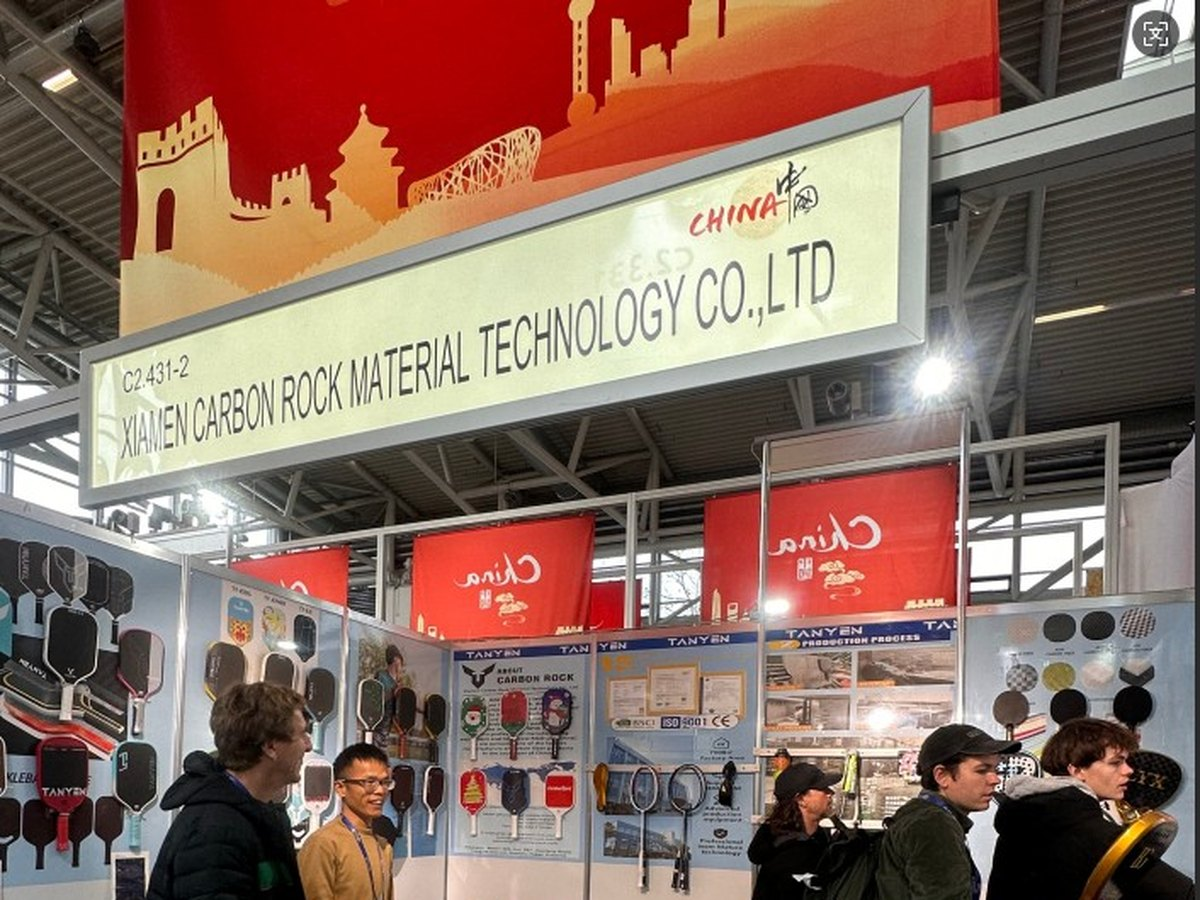
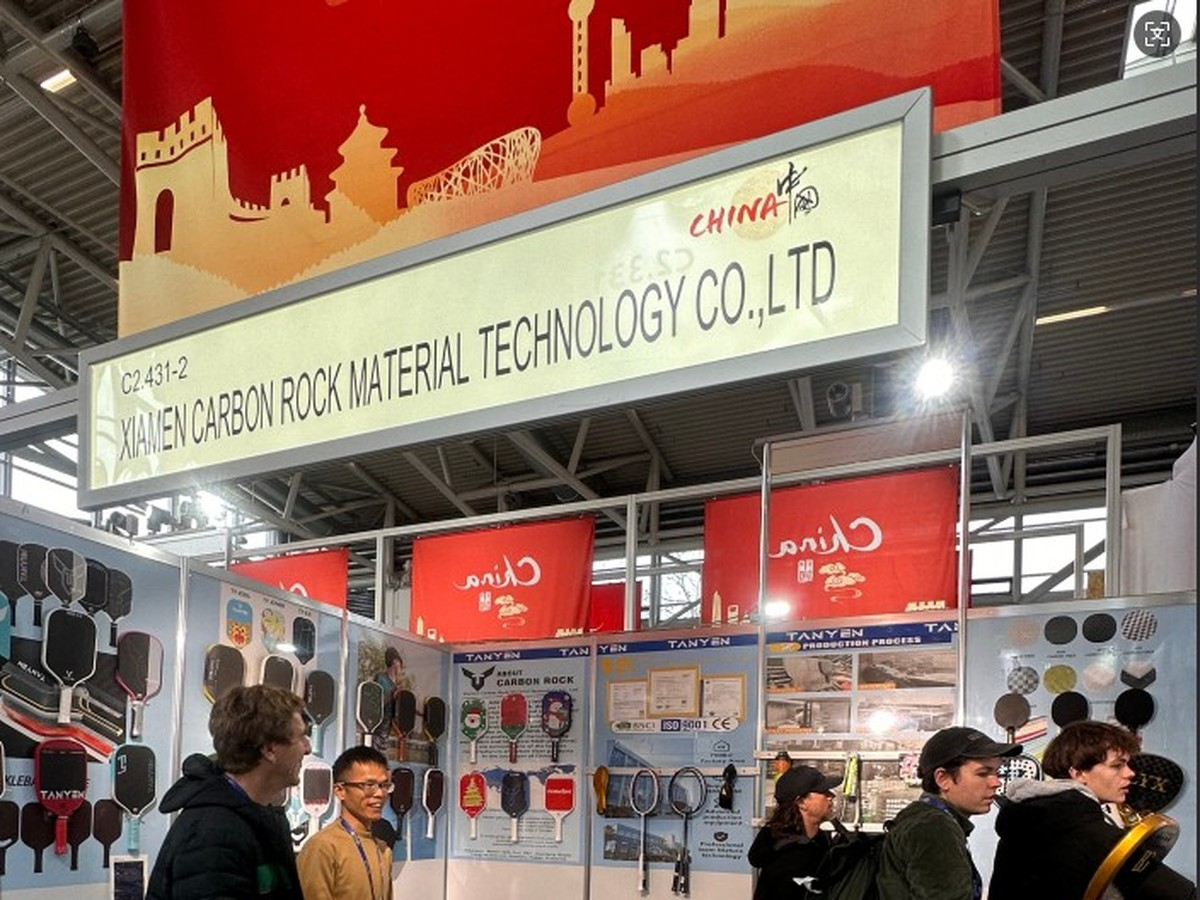
fix: preserve ISPO homepage image ratio

diff --git a/index.html b/index.html
@@ -60,7 +60,7 @@
 <div class="container cert-badges"><a class="cert-badge" href="quality.html#certifications"><img src="assets/img/certifications/iso-9001-hd.jpg" alt="ISO 9001:2015 certificate 25CN34517594Q"><span>ISO 9001:2015</span></a><a class="cert-badge" href="quality.html#certifications"><img src="assets/img/certifications/ce-verification-hd.jpg" alt="CE verification certificate ICR/VC/HM250954"><span>CE Verified</span></a><a class="cert-badge" href="quality.html#certifications"><img src="assets/img/certifications/bsci-amfori-hd.jpg" alt="amfori BSCI social audit by SGS"><span>amfori BSCI</span></a><a class="cert-badge" href="quality.html#certifications"><img src="assets/img/certifications/usapa-test-hd.jpg" alt="USA Pickleball paddle certification testing"><span>USA Pickleball Testing</span></a></div>
 <section class="section"><div class="container"><div class="section-head"><div><span class="kicker">Pickleball Platforms</span><h2>Pickleball paddle programs built for your market.</h2></div><p>Choose a proven construction platform, then customize shape, face material, core thickness, graphics, grip and packaging.</p></div><p class="new-platforms-note"><strong>New 2026 platforms:</strong> <a href="product-kevlar.html">Kevlar</a> · <a href="product-titanium.html">Titanium</a> · <a href="product-gen5-foam-core.html">GEN5 Foam Core</a></p><div class="grid-4" id="product-platforms" aria-label="Paddle platforms"><a class="card product-card" data-product-href="product-gen5-foam-core.html" href="product-gen5-foam-core.html" aria-label="GEN5 Foam Core - view details"><span class="badge-new">NEW</span><img src="assets/img/product-gen5-1.jpg" alt="Carbonova GEN5 foam core pickleball paddle" loading="lazy"><div class="card-body"><span class="tag">Power + Feel</span><h3>GEN5 Foam Core</h3><p>T700 carbon face on a GEN5 foam core with thermoformed unibody construction.</p><div class="product-meta"><span class="chip">16 mm</span><span class="chip">Elongated</span></div></div></a><a class="card product-card" data-product-href="product-titanium.html" href="product-titanium.html" aria-label="Titanium Paddle - view details"><span class="badge-new">NEW</span><img src="assets/img/product-titanium-1.jpg" alt="Carbonova Titanium pickleball paddle with titanium texture surface" loading="lazy"><div class="card-body"><span class="tag">Titanium Series</span><h3>Titanium Paddle</h3><p>Titanium texture face on a PP honeycomb core with cushioned grip - USA Pickleball approved.</p><div class="product-meta"><span class="chip">PP Honeycomb</span><span class="chip">Tournament-ready</span></div></div></a><a class="card product-card" data-product-href="product-kevlar.html" href="product-kevlar.html" aria-label="Kevlar Paddle - view details"><span class="badge-new">NEW</span><img src="assets/img/product-kevlar-1.jpg" alt="Carbonova Kevlar pickleball paddle with Kevlar weave surface" loading="lazy"><div class="card-body"><span class="tag">Kevlar Series</span><h3>Kevlar Paddle</h3><p>Abrasion-resistant Kevlar (aramid) fiber surface on a PP honeycomb core with thermoformed build - spin, precision and durability.</p><div class="product-meta"><span class="chip">Kevlar (aramid)</span><span class="chip">Abrasion resistant</span></div></div></a><a class="card product-card" data-product-href="product-thermoformed.html" href="product-thermoformed.html" aria-label="Thermoformed Pro - view details"><img src="assets/img/product-thermo-1.jpg" alt="Thermoformed pickleball paddle" loading="lazy"><div class="card-body"><span class="tag">Power + Stability</span><h3>Thermoformed Pro</h3><p>Foam-edge construction and enhanced perimeter stability for performance brands.</p><div class="product-meta"><span class="chip">Foam edge</span><span class="chip">Unibody options</span></div></div></a><a class="card product-card" data-product-href="product-t700.html" href="product-t700.html" aria-label="T700 Raw Carbon - view details"><img src="assets/img/product-t700-1.jpg" alt="T700 raw carbon pickleball paddle" loading="lazy"><div class="card-body"><span class="tag">Control + Spin</span><h3>T700 Raw Carbon</h3><p>Premium surface texture, consistent control and a strong tournament-ready story.</p><div class="product-meta"><span class="chip">14 / 16 mm</span><span class="chip">USA Pickleball options</span></div></div></a><a class="card product-card" data-product-href="products.html" href="products.html" aria-label="Fiberglass Series - view details"><img src="assets/img/product-fiberglass-1.jpg" alt="Fiberglass pickleball paddle" loading="lazy"><div class="card-body"><span class="tag">Value + Accessibility</span><h3>Fiberglass Series</h3><p>Cost-effective platforms for beginner, club, promotional and retail programs.</p><div class="product-meta"><span class="chip">Flexible MOQ</span><span class="chip">Custom graphics</span></div></div></a><a class="card product-card" data-product-href="product-pp-honeycomb.html" href="product-pp-honeycomb.html" aria-label="PP Honeycomb - view details"><img src="assets/img/product-pp-1.jpg" alt="Carbonova PP honeycomb pickleball paddle" loading="lazy"><div class="card-body"><span class="tag">Stable + Lightweight</span><h3>PP Honeycomb</h3><p>Raw carbon face on a PP honeycomb core for a stable, lightweight response.</p><div class="product-meta"><span class="chip">Wide body</span><span class="chip">Cushioned grip</span></div></div></a><a class="card product-card" data-product-href="product-custom.html" href="product-custom.html" aria-label="Custom Development - view details"><img src="assets/img/product-custom-6.jpg" alt="Custom development pickleball paddle with private label options" loading="lazy"><div class="card-body"><span class="tag">Brand Exclusive</span><h3>Custom Development</h3><p>Exclusive shapes, structures, surface finishes, weights and retail packaging.</p><div class="product-meta"><span class="chip">OEM / ODM</span><span class="chip">Prototyping</span></div></div></a></div><p style="margin-top:28px"><a class="btn btn-dark" href="products.html">Explore Pickleball Paddles</a></p></div></section><section class="section section-soft"><div class="container"><div class="section-head"><div><span class="kicker">Padel</span><h2>Padel Racket Platforms</h2></div><p>Private-label padel racket development - shapes, carbon materials, EVA density, balance, surface finish, graphics and packaging, built around your market position.</p></div><div class="grid-3"><div class="card"><img src="assets/img/product-padel-round-teal-1.jpg" alt="Carbonova 3K carbon round control padel racket teal blue OEM private label"><div class="card-body"><span class="tag">In Production</span><h3>3K Carbon Round Control - Teal Blue</h3><p>Round control shape with a larger sweet spot and a 3K carbon face - control-oriented response.</p><a class="btn btn-dark btn-sm" href="product-padel-round-teal.html">View Details</a></div></div><div class="card"><img src="assets/img/product-padel-pink-1.jpg" alt="Carbonova 3K carbon teardrop padel racket OEM private label"><div class="card-body"><span class="tag">In Production</span><h3>3K Carbon Teardrop - Neon Pink</h3><p>Teardrop all-court balance with a 3K carbon face and EVA soft core.</p><a class="btn btn-dark btn-sm" href="product-padel-pink.html">View Details</a></div></div><div class="card"><img src="assets/img/product-padel-diamond-gold-1.jpg" alt="Carbonova 3K carbon diamond power padel racket gold OEM private label"><div class="card-body"><span class="tag">In Production</span><h3>3K Carbon Diamond Power - Gold</h3><p>Power-oriented diamond head geometry with a 3K carbon face and medium-density EVA core.</p><a class="btn btn-dark btn-sm" href="product-padel-diamond-gold.html">View Details</a></div></div><div class="card"><img src="assets/img/product-padel-orange-1.jpg" alt="Carbonova 3K carbon round padel racket manufacturer"><div class="card-body"><span class="tag">In Production</span><h3>3K Carbon Round - Orange</h3><p>Round control shape with a premium 3K carbon face and EVA core.</p><a class="btn btn-dark btn-sm" href="product-padel-orange.html">View Details</a></div></div><div class="card"><div class="card-body"><span class="kicker">By Material</span><h3>12K / 18K Carbon</h3><p>Higher-modulus carbon face options for premium positioning.</p><span class="meta">Available Development Platform</span></div></div><div class="card"><div class="card-body"><span class="kicker">Custom</span><h3>Custom Padel Development</h3><p>Shape, face, EVA density, balance, finish, graphics and packaging to your specification.</p><a class="btn btn-dark btn-sm" href="product-padel-custom-lime.html">View Custom Padel</a> <a class="btn btn-whatsapp btn-sm" href="https://wa.me/8615980790858?text=Hi%20Carbonova%2C%20I'd%20like%20to%20discuss%20a%20padel%20racket%20project." target="_blank" rel="noopener">Chat on WhatsApp</a></div></div></div><p style="margin-top:24px;text-align:center"><a class="btn btn-primary" href="padel.html">Explore Padel Rackets</a> <a class="btn btn-outline" href="oem.html">Start a Padel OEM Project</a></p></div></section><section class="section section-dark"><div class="container tech-grid"><div><span class="eyebrow">Engineering Advantage</span><h2 style="font-size:clamp(34px,5vw,56px);line-height:1.06;margin:18px 0">Materials and structures engineered around your price point.</h2><p style="color:#a7b3ba;max-width:620px">From entry fiberglass to T700, 3K, 12K and 18K carbon constructions, Carbonova helps buyers balance performance, durability, appearance and target cost.</p><div class="tech-list"><div class="tech-item"><strong>Carbon Face Development</strong><span>Raw carbon texture, woven carbon options and surface-finish control.</span></div><div class="tech-item"><strong>Thermoformed Construction</strong><span>Perimeter foam, reinforced edges and optimized sweet-spot design.</span></div><div class="tech-item"><strong>Core & Feel Tuning</strong><span>Polymer honeycomb thickness, weight distribution and grip specification.</span></div></div><p style="margin-top:28px"><a class="btn btn-primary" href="technology.html">Explore Technology</a></p></div><div><img src="assets/img/technology-stack.jpg" alt="Pickleball paddle technology stack layered construction diagram"></div></div></section>
 <section class="section section-soft"><div class="container"><div class="section-head"><div><span class="kicker">Factory Proof</span><h2>A manufacturing partner buyers can verify.</h2></div><p>Make factory capability, quality systems and production transparency part of your sales story—not an afterthought.</p></div><div class="grid-4"><div class="stat-card"><strong>7,000 m²</strong><span>Manufacturing facility</span></div><div class="stat-card"><strong>ISO 9001</strong><span>Quality management system</span></div><div class="stat-card"><strong>BSCI</strong><span>Social compliance capability</span></div><div class="stat-card"><strong>USA Pickleball</strong><span>Approved product experience</span></div></div><div class="grid-2" style="margin-top:28px"><img class="card" src="assets/img/factory-building.jpg" alt="Carbonova 7,000 m² factory building in Xiamen"><div class="card"><div class="card-body"><span class="kicker">What buyers receive</span><h3 style="font-size:32px">A clear, controlled development process.</h3><ul class="feature-list"><li>Requirement review and target-cost planning</li><li>Material and construction recommendation</li><li>Prototype sampling and revision</li><li>Pre-production confirmation</li><li>In-process and final inspection</li><li>Export packaging and shipping coordination</li></ul><a class="btn btn-outline" href="factory.html">See Factory Capability</a></div></div></div></div></section>
-<section class="section section-soft"><div class="container"><div class="section-head"><div><span class="kicker">International Trade Show Presence</span><h2>Carbonova Sports at ISPO Munich 2024.</h2></div><p>Xiamen Carbon Rock Material Technology Co., Ltd. presented Carbonova Sports products and manufacturing capabilities at the show.</p></div><div class="grid-2 trade-show-feature"><img class="card" src="assets/img/trade-shows/ispo-munich-2024-3-homepage.jpg" alt="Xiamen Carbon Rock Material Technology Co., Ltd. booth at ISPO Munich 2024 with paddle displays and visitors" width="1600" height="900" loading="lazy"><div class="card"><div class="card-body"><span class="kicker">Verified Event Presence</span><h3 style="font-size:32px">A real-world view of our exhibition presence.</h3><p>This featured image shows the Carbon Rock booth header, product walls, display table and visitors at ISPO Munich 2024. It is a record of exhibition presence, not a certification or customer endorsement.</p><a class="btn btn-outline" href="case-studies.html#trade-show-presence">View 2024 and 2025 show photos</a></div></div></div></div></section>
+<section class="section section-soft"><div class="container"><div class="section-head"><div><span class="kicker">International Trade Show Presence</span><h2>Carbonova Sports at ISPO Munich 2024.</h2></div><p>Xiamen Carbon Rock Material Technology Co., Ltd. presented Carbonova Sports products and manufacturing capabilities at the show.</p></div><div class="grid-2 trade-show-feature"><img class="card trade-show-feature-image" src="assets/img/trade-shows/ispo-munich-2024-3-homepage.jpg" alt="Xiamen Carbon Rock Material Technology Co., Ltd. booth at ISPO Munich 2024 with paddle displays and visitors" width="1600" height="900" loading="lazy"><div class="card"><div class="card-body"><span class="kicker">Verified Event Presence</span><h3 style="font-size:32px">A real-world view of our exhibition presence.</h3><p>This featured image shows the Carbon Rock booth header, product walls, display table and visitors at ISPO Munich 2024. It is a record of exhibition presence, not a certification or customer endorsement.</p><a class="btn btn-outline" href="case-studies.html#trade-show-presence">View 2024 and 2025 show photos</a></div></div></div></div></section>
 <section class="section"><div class="container"><div class="section-head"><div><span class="kicker">OEM Workflow</span><h2>From idea to shelf-ready product.</h2></div><p>A simple five-stage process keeps technical decisions, approvals and production milestones visible.</p></div><div class="process"><div class="process-step"><div class="num">1</div><h3>Brief</h3><p>Market, price, material, shape and quantity requirements.</p></div><div class="process-step"><div class="num">2</div><h3>Design</h3><p>Structure proposal, artwork, specifications and quotation.</p></div><div class="process-step"><div class="num">3</div><h3>Prototype</h3><p>Sample production, testing, feedback and refinement.</p></div><div class="process-step"><div class="num">4</div><h3>Production</h3><p>Approved BOM, controlled manufacturing and inspections.</p></div><div class="process-step"><div class="num">5</div><h3>Delivery</h3><p>Packaging, export documentation and shipping support.</p></div></div><div style="margin-top:34px"><a class="btn btn-dark" href="oem.html">Start an OEM Project</a></div></div></section>
 <section class="section section-soft"><div class="container"><div class="section-head"><div><span class="kicker">Buyer Resources</span><h2>Useful answers before you send an RFQ.</h2></div><a class="btn btn-outline" href="blog.html">View All Resources</a></div><div class="grid-3"><article class="card blog-card"><img src="assets/img/product-t700-1.jpg" alt="Carbon material comparison"><div class="card-body"><span class="meta">Materials Guide</span><h3>T700 Carbon vs Fiberglass for Private Label Paddles</h3><p>How to match construction, price and player positioning.</p><a class="more" href="blog/t700-vs-fiberglass.html">Read guide →</a></div></article><article class="card blog-card"><img src="assets/img/product-thermo-1.jpg" alt="Thermoformed paddle guide"><div class="card-body"><span class="meta">Technology Guide</span><h3>What Buyers Should Know About Thermoformed Paddles</h3><p>A practical B2B overview of construction, benefits and trade-offs.</p><a class="more" href="blog/thermoformed-guide.html">Read guide →</a></div></article><article class="card blog-card"><img src="assets/img/factory-building.jpg" alt="Carbonova factory building in Xiamen"><div class="card-body"><span class="meta">Sourcing Guide</span><h3>How to Evaluate a Pickleball Paddle Manufacturer</h3><p>Questions to ask before sampling or placing a production order.</p><a class="more" href="blog/manufacturer-guide.html">Read guide →</a></div></article></div></div></section>
 <section class="section section-soft"><div class="container"><div class="section-head"><div><span class="kicker">Request a Quote</span><h2>Send your project requirements.</h2></div><p>We normally reply within 1 business day with a practical development route.</p></div><div class="grid-2"><form class="quote-form" data-rfq-form action="https://formsubmit.co/peterxball844@gmail.com" method="POST"><input type="hidden" name="_subject" value="Homepage RFQ from Carbonova website"><input type="hidden" name="_captcha" value="false"><input type="hidden" name="_template" value="table"><input type="text" name="_honey" style="display:none"><div class="form-row"><div class="field"><label for="home-name">Name *</label><input id="home-name" name="name" required></div><div class="field"><label for="home-company">Company *</label><input id="home-company" name="company" required></div></div><div class="form-row"><div class="field"><label for="home-email">Business Email *</label><input id="home-email" type="email" name="email" required></div><div class="field"><label for="home-product">Product Interest</label><select id="home-product" name="product"><option>Pickleball Paddle</option><option>Padel Racket</option><option>Custom Development</option><option>Other</option></select></div></div><div class="form-row"><div class="field"><label for="home-price">Target Retail Price ($/unit)</label><input id="home-price" name="target_retail_price" placeholder="e.g. 45"></div><div class="field"><label for="home-launch">Target Launch Date</label><input id="home-launch" name="target_launch_date" placeholder="e.g. 2026 Q4"></div></div><div class="field"><label for="home-ref">Reference / Artwork Link</label><input id="home-ref" name="reference_link" type="url" placeholder="Paste a link to reference images or artwork"></div><div class="form-row padel-fields" style="display:none"><div class="field"><label for="home-padel-shape">Padel Shape</label><select id="home-padel-shape" name="padel_shape"><option>Round</option><option>Teardrop</option><option>Diamond</option><option>Not sure</option></select></div><div class="field"><label for="home-padel-face">Face Material</label><select id="home-padel-face" name="padel_face"><option>Fiberglass</option><option>3K Carbon</option><option>12K Carbon</option><option>18K Carbon</option><option>Not sure</option></select></div></div><div class="form-row padel-fields" style="display:none"><div class="field"><label for="home-padel-eva">EVA Core</label><select id="home-padel-eva" name="padel_eva"><option>Soft</option><option>Medium</option><option>Hard</option><option>Not sure</option></select></div><div class="field"><label for="home-padel-weight">Target Weight (g)</label><input id="home-padel-weight" name="padel_weight" placeholder="e.g. 365"></div></div><div class="field"><label for="home-message">Project Details *</label><textarea id="home-message" name="message" rows="4" required placeholder="Target market, quantity, material preference, branding..."></textarea></div><button class="btn btn-primary" type="submit">Submit RFQ</button><p class="form-note">Delivered securely to our sales team. We normally reply within 1 business day.</p><p class="form-note">Prefer WhatsApp? <a class="wa-inline" href="https://wa.me/8615980790858?text=Hi%20Carbonova%2C%20I%20have%20a%20question%20about%20your%20pickleball%20paddles." target="_blank" rel="noopener">Chat directly on WhatsApp</a></p></form><div class="card"><div class="card-body"><span class="kicker">Why send an RFQ</span><h3 style="font-size:26px">Get a practical development route.</h3><ul class="feature-list"><li>Material and construction recommendation</li><li>Pilot MOQ from 50-100 pcs on selected platforms</li><li>Sample-first development process</li><li>Certifications and testing support</li></ul><a class="btn btn-outline" href="contact.html">Full RFQ Form</a></div></div></div></div></section><section class="section"><div class="container"><div class="cta-band"><div><h2>Planning a new paddle collection?</h2><p>Send your target market, material preference, quantity and design requirements. Carbonova will recommend a practical development route.</p></div><a class="btn btn-primary" href="contact.html">Send Your RFQ</a></div></div></section>

diff --git a/assets/css/styles.css b/assets/css/styles.css
@@ -17,3 +17,5 @@
 .tech-grid .technology-stack-image,.home-factory-image.card,.blog-card .factory-building-image{height:auto!important;min-height:0;max-height:none;align-self:start;object-fit:contain;aspect-ratio:auto}
 /* Factory and quality image ratio fixes */
 .factory-building-image.card,.factory-gallery-image,.quality-qc-image.card{display:block;width:100%;height:auto!important;max-width:100%;min-height:0;max-height:none;object-fit:contain;aspect-ratio:auto;align-self:start}
+/* ISPO homepage feature: preserve the source ratio beside the text card */
+.trade-show-feature .trade-show-feature-image{display:block;width:100%;height:auto!important;max-width:100%;min-height:0;max-height:none;object-fit:contain;aspect-ratio:16 / 9;align-self:start}

diff --git a/assets/img/trade-shows/README.md b/assets/img/trade-shows/README.md
@@ -6,11 +6,11 @@ Prepared for Carbonova Sports website use from five real exhibition photos suppl
 
 | File | Event | Web dimensions | Format / size | Preserved facts and framing |
 |---|---|---:|---|---|
-| `ispo-munich-2024-1.jpg` | ISPO Munich 2024 | 1200 x 900 | JPEG, ~205 KB, quality 86 | Main booth header reading Xiamen Carbon Rock Material Technology Co., Ltd.; China exhibition banners; paddle display wall; live visitor discussion. Cropped from the lower part of the portrait source to remove excess floor while keeping the header and people naturally framed. |
+| `ispo-munich-2024-1.jpg` | ISPO Munich 2024 | 1200 x 900 | RGB JPEG, ~251 KB, quality 90 | Rebuilt from original `E:\阿里巴巴\ACCIO\_downloads\ispo-munich-originals\ispo-1.jpg`; exact source crop `(x=0, y=400, right=3072, bottom=2704)` = 3072 x 2304 (4:3), then proportional resize to 1200 x 900. Keeps the full Carbon Rock booth header, China exhibition banners, paddle display wall, and upper visitor interaction; no stretching or content retouching. |
 | `ispo-munich-2024-2.jpg` | ISPO Munich 2024 | 1200 x 900 | JPEG, ~200 KB, quality 90 | Product wall, paddle displays, booth materials, and live discussion with visitors. Native 4:3 crop/resize; no content retouching. |
 | `ispo-munich-2024-3.jpg` | ISPO Munich 2024 | 1200 x 900 | JPEG, ~206 KB, quality 90 | Booth header, aisle perspective, paddle walls on both sides, product/sample table, and visitors examining displays. Native 4:3 crop/resize; no content retouching. |
-| `ispo-munich-2025-1.jpg` | ISPO Munich 2025 | 1200 x 900 | JPEG, ~222 KB, quality 86 | Carbon Rock booth header, red China banners, paddle/product display walls, production-process boards, and visitors. Cropped from the lower part of the portrait source to remove excess floor while retaining the header and event activity. |
-| `ispo-munich-2025-2.jpg` | ISPO Munich 2025 | 1200 x 900 | JPEG, ~186 KB, quality 86 | Booth header, production/process and material boards, paddle displays, and three people posing at the booth. Cropped from the lower part of the portrait source; people and key signage remain visible. |
+| `ispo-munich-2025-1.jpg` | ISPO Munich 2025 | 1200 x 900 | RGB JPEG, ~266 KB, quality 90 | Rebuilt from original `E:\阿里巴巴\ACCIO\_downloads\ispo-munich-originals\ispo-4.jpg`; exact source crop `(x=1, y=0, right=705, bottom=528)` = 704 x 528 (4:3), then proportional resize to 1200 x 900. Keeps the booth header, red China banners, paddle/product display walls, production-process boards, and visitors; no stretching or content retouching. |
+| `ispo-munich-2025-2.jpg` | ISPO Munich 2025 | 1200 x 900 | RGB JPEG, ~222 KB, quality 90 | Rebuilt from original `E:\阿里巴巴\ACCIO\_downloads\ispo-munich-originals\ispo-5.jpg`; exact source crop `(x=1, y=0, right=701, bottom=525)` = 700 x 525 (4:3), then proportional resize to 1200 x 900. Keeps the booth header, production/process and material boards, paddle displays, and three people posing at the booth; no stretching or content retouching. |
 | `ispo-munich-2024-3-homepage.jpg` | ISPO Munich 2024 | 1600 x 900 | JPEG, ~249 KB, quality 90 | Homepage-wide version of 2024-3: booth header, aisle depth, product walls on both sides, display table, and visitors. 16:9 crop for a hero/featured banner; no invented content. |
 
 All output images are RGB JPEGs with EXIF metadata omitted by the Pillow export. The source photographer watermark visible in the original photos remains where it falls inside the selected crop; no watermark-removal or AI retouching was performed.
